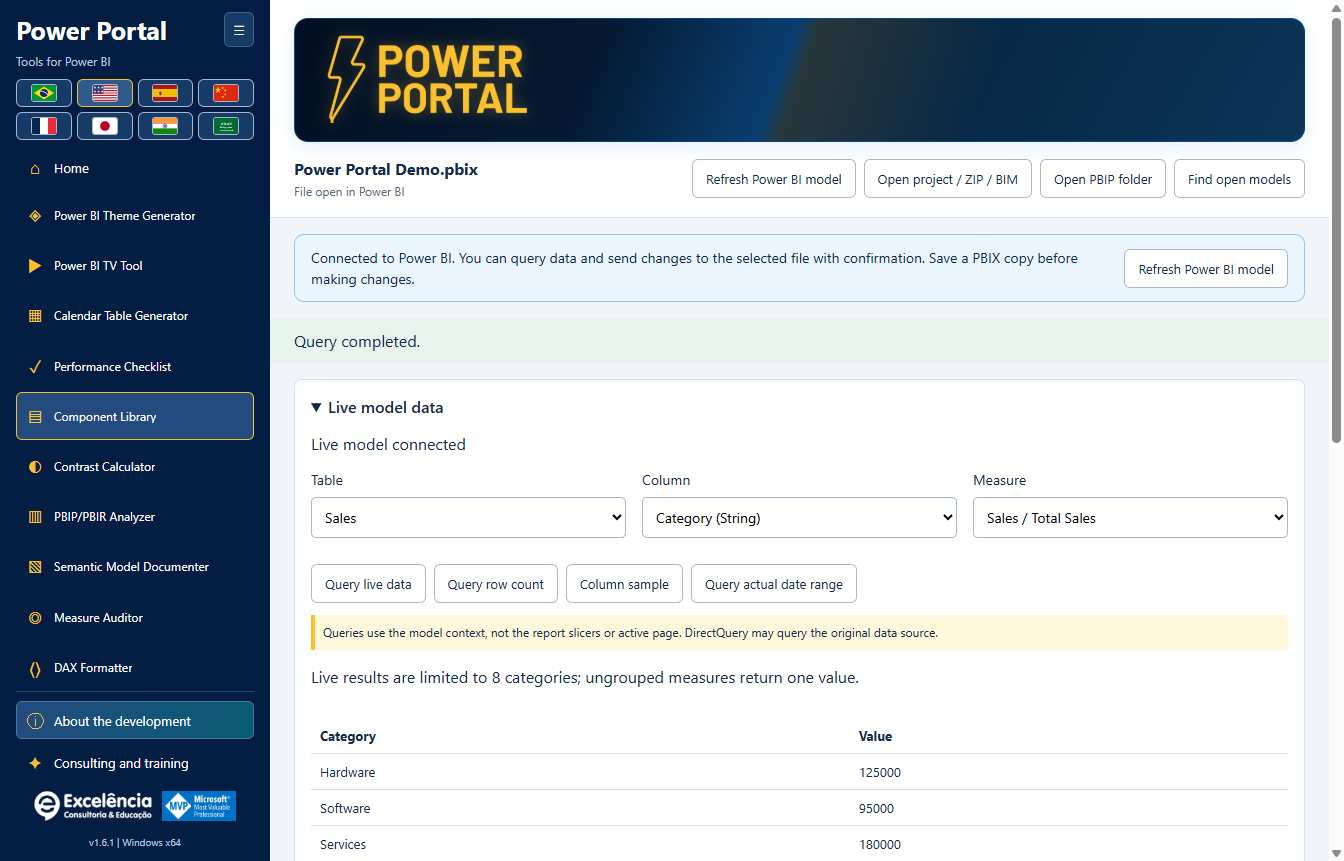
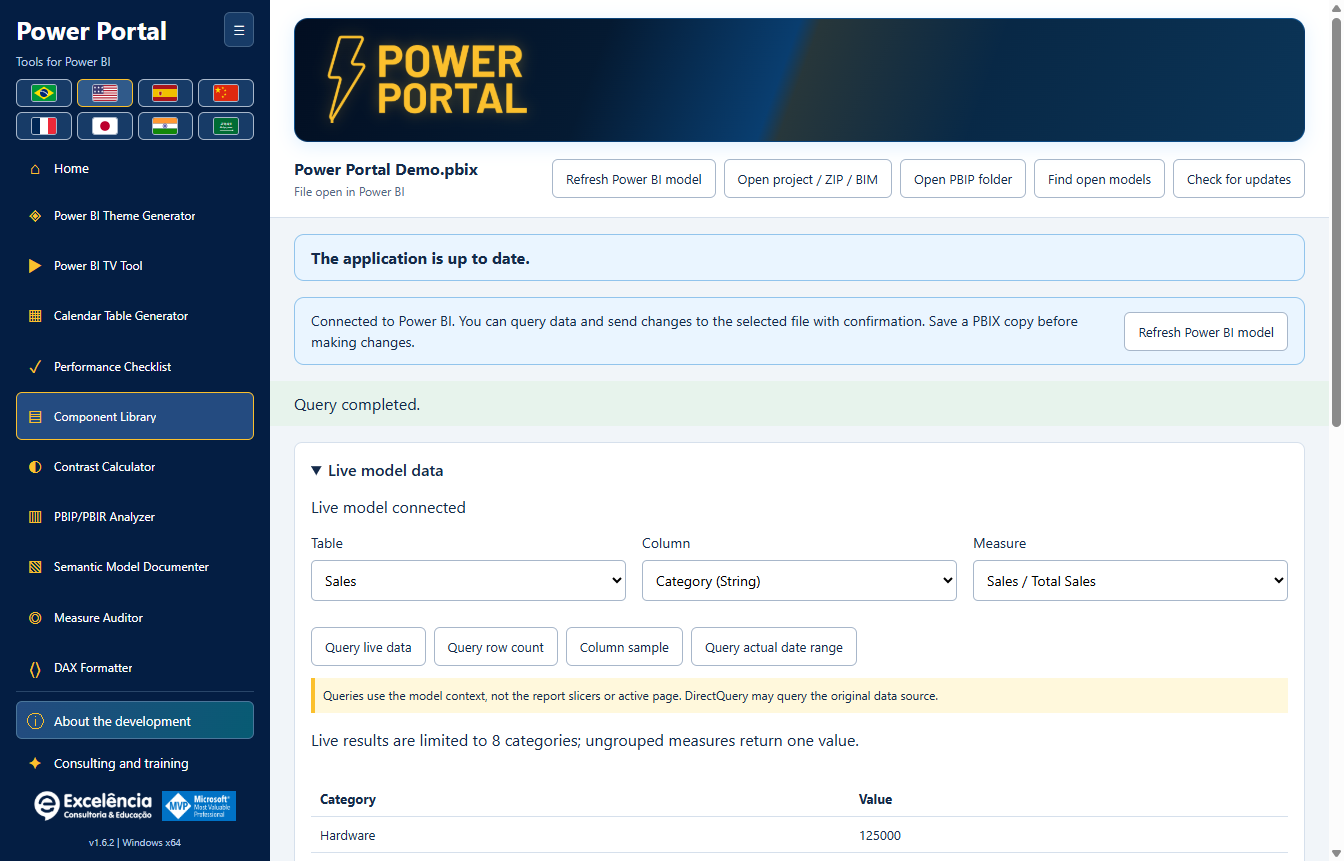
Release 1.6.2 with built-in update checks and illustrated update documentation

diff --git a/README.md b/README.md
@@ -10,13 +10,13 @@ This is a **distribution-only repository**: installers, installation helpers, ch
 
 ### Option 1: Install with a few clicks
 
-1. [Download Power Portal Desktop 1.6.1 for Windows x64](https://github.com/luisgnserra/powerportaldesktop/releases/download/v1.6.1/PowerPortal-Setup-1.6.1-x64.exe).
+1. [Download Power Portal Desktop 1.6.2 for Windows x64](https://github.com/luisgnserra/powerportaldesktop/releases/download/v1.6.2/PowerPortal-Setup-1.6.2-x64.exe).
 2. Run the installer and approve the Windows administrator prompt.
 3. Choose the installation folder and default language.
 4. Finish installation, then close and reopen Power BI Desktop.
 5. Open a PBIX and select **External Tools > Power Portal**.
 
-**Windows may warn that the publisher is unknown:** version 1.6.1 is not digitally signed. Only proceed if you trust this distribution. If your organization blocks unsigned software, contact IT rather than bypassing its policy.
+**Windows may warn that the publisher is unknown:** version 1.6.2 is not digitally signed. Only proceed if you trust this distribution. If your organization blocks unsigned software, contact IT rather than bypassing its policy.
 
 [Latest release](https://github.com/luisgnserra/powerportaldesktop/releases/latest) · [Installation guide](docs/INSTALLATION.md) · [Configuration](docs/CONFIGURATION.md) · [Troubleshooting](docs/TROUBLESHOOTING.md)
 
@@ -28,11 +28,23 @@ The installer adds **Power Portal** to **External Tools** in Power BI Desktop. C
 
 The supplied ribbon screenshot uses Portuguese: **Ferramentas externas** means **External Tools**. Power Portal opens a **separate window connected to Power BI**, not an embedded report visual or a new internal Power BI pane.
 
-![Power Portal 1.6.1 home, full sidebar and startup connection notice](docs/images/home.png)
+![Power Portal 1.6.2 home, full sidebar and startup connection notice](docs/images/home.png)
 
 **Already have Power BI open?** When launched from a shortcut, Power Portal detects open local models and displays a connection notice. Choose **Find open models**, select your file, and connect. You can then query its data and send supported changes back with confirmation.
 
 [See all ten tools, connection screens and direct Power BI actions in the illustrated guide](docs/SCREENSHOTS.md).
+
+### Built-in update checks
+
+Starting in **1.6.2**, the installed application checks the latest official GitHub Release when opened. If a newer stable version exists, it shows **Update now**. Click it to download, verify SHA-256/size, and start the installer automatically.
+
+Windows asks for administrator authorization. Only Power Portal closes; Power BI remains open. Save/export unsent tool edits first. Failed downloads or canceled authorization leave an explicit error and a retry option.
+
+![New-version notification and Update now button](docs/images/update-available.png)
+
+The screenshot uses a **simulated future 1.6.3 notification** to illustrate the UI, not an announcement of a published version. [Update guide](docs/UPDATES.md).
+
+**On 1.6.1 or older? Install 1.6.2 manually once** to enable this feature. You can also use **Check for updates** to retry a failed/offline check. The updater never installs merely because you opened the application.
 
 ### Option 2: Install from PowerShell
 
@@ -40,13 +52,13 @@ Open **Windows PowerShell 5.1 or PowerShell 7 on Windows**:
 
 ```powershell
 $script = Join-Path $env:TEMP 'Install-PowerPortal.ps1'
-Invoke-WebRequest -UseBasicParsing 'https://raw.githubusercontent.com/luisgnserra/powerportaldesktop/v1.6.1/install.ps1' -OutFile $script
+Invoke-WebRequest -UseBasicParsing 'https://raw.githubusercontent.com/luisgnserra/powerportaldesktop/v1.6.2/install.ps1' -OutFile $script
 # Review the downloaded script before running it.
 Get-Content -LiteralPath $script
 & $script
 ```
 
-The helper downloads **version 1.6.1**, verifies its pinned SHA-256 checksum, and opens the same installer. It does not install Node.js, PHP, a .NET SDK, or build anything.
+The helper downloads **version 1.6.2**, verifies its pinned SHA-256 checksum, and opens the same installer. It does not install Node.js, PHP, a .NET SDK, or build anything.
 
 For unattended installation, run the same helper from an **administrator PowerShell window**:
 
@@ -113,7 +125,7 @@ The installer suggests the Windows UI language. A user's later language selectio
 - Theme application uses **visible Windows UI Automation** and requires confirmation. There is no supported generic theme-write API for an open Desktop PBIX; dialogs are not hidden.
 - TOM connects to the semantic model, not the active report's filters, pages or visual placement. An HTML measure does not automatically add a visual to a report.
 - Report-analysis and measure-audit scores are heuristics, not measured visual performance.
-- Local model data is not sent to the Power Portal website. User-opened external links, online presentations and DirectQuery sources can require network access.
+- Local model data is not sent to the Power Portal website. The updater requests only official GitHub release metadata/installers, never model contents. User-opened external links, online presentations and DirectQuery sources can require network access.
 - Documentation exports, metadata backups and change logs can contain confidential model details. Store and share them appropriately.
 
 Read the [usage and safety guide](docs/USAGE.md) before modifying a model.

diff --git a/docs/UPDATES.md b/docs/UPDATES.md
@@ -1,0 +1,61 @@
+# Update checks and automatic installation
+
+[Back to home](../README.md) · [Installation](INSTALLATION.md)
+
+## Available from version 1.6.2
+
+Install **1.6.2 manually once** if you have 1.6.1 or an older version. Older applications cannot gain a new updater without first installing the release that contains it.
+
+The **installed** application checks the latest public stable Release in `luisgnserra/powerportaldesktop` when opened. It compares numeric three-part versions, ignores downgrades/current versions, and does not offer draft or prerelease builds.
+
+The development/source run does not download or install updates.
+
+## Update flow
+
+1. Open Power Portal. With internet available, it checks for a newer release.
+2. If available, a notification displays the version and **Update now**.
+3. **Save/export unsent tool edits** before proceeding. Model writes/themes already in progress block updating.
+4. Click **Update now**. There is no installation merely from opening the app or checking for updates.
+5. The main process downloads the official x64 installer over HTTPS and checks its exact size and SHA-256 against the published GitHub Release asset metadata.
+6. Windows requests administrator authorization. Approve only if you trust this distribution.
+7. After authorization/installer launch, Power Portal closes and the installer runs silently in the **existing installation folder**. **Power BI Desktop is not closed.**
+8. Reopen Power Portal after installation completes. Restart Desktop if its ribbon/registration needs reloading.
+
+![Update notification and user-controlled Update now button](images/update-available.png)
+
+The screenshot is a **simulated future 1.6.3 notification** inside 1.6.2, demonstrating the UI only. It is not a release announcement.
+
+The app reports installer launch, not a verified completed installation: installation completes after the old app closes. Check the displayed application version after reopening. Windows can still block the unsigned installer or require IT approval.
+
+## Checks, retries and failures
+
+**Check for updates** in the top actions retries the check manually. There is no background polling loop or forced installation.
+
+- Offline, firewall/proxy or GitHub API rate-limit errors are displayed in the update notice; local tools remain usable.
+- Invalid release metadata, missing asset digest, checksum mismatch, unexpected redirect hosts, excessive download size or timeouts prevent execution.
+- Canceling Windows authorization leaves the app available and shows an error. Retry when ready.
+- A failed check clears the old available-update offer so stale data is not used silently.
+- The updater blocks new model writes while downloading/installing and refuses to start during an active write/theme operation.
+- Tool-form edits that have not been sent/exported are not automatically preserved across application replacement. Export/save first.
+
+## Privacy, network and integrity
+
+Update requests contain only standard HTTPS request metadata to GitHub, not local model names, DAX, data, PBIX contents or credentials. No GitHub login/token is required for public releases.
+
+Release metadata comes from:
+
+```text
+https://api.github.com/repos/luisgnserra/powerportaldesktop/releases/latest
+```
+
+Installer URLs must match the release's exact versioned asset in this repository. HTTPS redirects are restricted to GitHub and its official release-asset hosts. The app retains the metadata's hash/size for that download.
+
+Checks have a 30-second total timeout and a 1 MB metadata limit. Downloads have a 20-minute total limit, 30-second socket inactivity timeout and a 1 GB maximum accepted installer size. These are bounds, not the normal package size.
+
+Downloads are held in `%APPDATA%\powerportal-desktop\updates`. Partial files are removed on handled failures; a verified EXE can remain after installation. No application source is downloaded or built.
+
+**SHA-256 is an integrity check, not a digital publisher signature.** The current release is unsigned. The updater does not bypass UAC, SmartScreen or enterprise policies. If your network requires a proxy the updater cannot use, ask IT or install the verified Release EXE manually.
+
+## Manual fallback
+
+Use the [latest Release](https://github.com/luisgnserra/powerportaldesktop/releases/latest) or the [versioned PowerShell helper](INSTALLATION.md#command-line-installation). Existing version-pinned helper commands intentionally install their pinned version, not whichever future release is latest.

diff --git a/docs/INSTALLATION.md b/docs/INSTALLATION.md
@@ -11,7 +11,7 @@ Allow approximately 1 GB of free disk space for the download and installed runti
 ## Simple installation
 
 1. Open the [latest Release](https://github.com/luisgnserra/powerportaldesktop/releases/latest).
-2. Under **Assets**, download `PowerPortal-Setup-1.6.1-x64.exe` for this release. Do not download the automatically generated source archives as an installer.
+2. Under **Assets**, download `PowerPortal-Setup-1.6.2-x64.exe` for this release. Do not download the automatically generated source archives as an installer.
 3. Optionally [verify SHA-256](#verify-the-installer).
 4. Run the executable and approve User Account Control.
 5. Accept the displayed dependency terms, choose a folder, and select a default language using the flags. Windows UI language is suggested; unsupported languages default to English.
@@ -36,12 +36,12 @@ Launching the Windows shortcut instead displays a notice when open models are de
 
 ```powershell
 $script = Join-Path $env:TEMP 'Install-PowerPortal.ps1'
-Invoke-WebRequest -UseBasicParsing 'https://raw.githubusercontent.com/luisgnserra/powerportaldesktop/v1.6.1/install.ps1' -OutFile $script
+Invoke-WebRequest -UseBasicParsing 'https://raw.githubusercontent.com/luisgnserra/powerportaldesktop/v1.6.2/install.ps1' -OutFile $script
 Get-Content -LiteralPath $script
 & $script
 ```
 
-This versioned URL pins the helper to the 1.6.1 release. It does not silently track future releases. The helper also pins the installer filename and SHA-256 checksum, downloads over HTTPS, verifies the executable before running it, and checks installation registration after a successful installer exit.
+This versioned URL pins the helper to the 1.6.2 release. It does not silently track future releases. The helper also pins the installer filename and SHA-256 checksum, downloads over HTTPS, verifies the executable before running it, and checks installation registration after a successful installer exit.
 
 ### Unattended installation
 
@@ -78,7 +78,7 @@ Do not paste an unreviewed script into `Invoke-Expression`. If a downloaded scri
 After checksum verification, an administrator can run:
 
 ```powershell
-$setup = "$env:USERPROFILE\Downloads\PowerPortal-Setup-1.6.1-x64.exe"
+$setup = "$env:USERPROFILE\Downloads\PowerPortal-Setup-1.6.2-x64.exe"
 $process = Start-Process -FilePath $setup -ArgumentList '/S' -Wait -PassThru
 if ($process.ExitCode -ne 0) { throw "Installer failed: $($process.ExitCode)" }
 ```
@@ -87,15 +87,15 @@ The PowerShell helper is recommended because it checks both the download and the
 
 ## Verify the installer
 
-Expected SHA-256 for **1.6.1 x64**:
+Expected SHA-256 for **1.6.2 x64**:
 
 ```text
[2 lines of base64/hex data omitted]
 ```
 
 ```powershell
-$file = "$env:USERPROFILE\Downloads\PowerPortal-Setup-1.6.1-x64.exe"
[1 lines of base64/hex data omitted]
+$file = "$env:USERPROFILE\Downloads\PowerPortal-Setup-1.6.2-x64.exe"
[1 lines of base64/hex data omitted]
 if ((Get-FileHash -LiteralPath $file -Algorithm SHA256).Hash -ne $expected) {
     throw 'Checksum mismatch. Do not run this installer.'
 }
@@ -109,7 +109,9 @@ Download a newer official installer and run it over the existing installation. T
 
 Close Power Portal yourself before an unattended update. Restart Power BI Desktop after installation so it reloads the External Tools registration. Existing per-user language/sidebar preferences and local backups are retained.
 
-There is **no automatic updater configured in this release**. Check Releases for updates. Downgrades are not certified; save your work and contact support before using an older installer.
+Starting with **1.6.2**, startup checks and **Check for updates** notify you about newer official releases. **Update now** downloads/verifies the installer and starts an elevated silent update in the current installation folder, only after your click. Power BI is not closed. Reopen Power Portal after installation completes. [Update details](UPDATES.md).
+
+Versions **1.6.1 and older require a one-time manual upgrade to 1.6.2**. Downgrades are not certified; save your work and contact support before using an older installer.
 
 ## Uninstall
 

diff --git a/docs/TROUBLESHOOTING.md b/docs/TROUBLESHOOTING.md
@@ -22,7 +22,12 @@
 | `-Silent` asks for administrator PowerShell | Close that terminal and launch PowerShell **Run as administrator**, then retry. |
 | SHA-256 mismatch | **Do not run the file.** Remove/move the invalid download, get the official asset again, and compare against the published checksum. |
 | GitHub download fails | Check connectivity, proxy/firewall restrictions and the Release URL. IT can distribute the verified EXE through an approved channel. |
-| SmartScreen/unknown publisher | 1.6.1 is unsigned. Verify the checksum and publisher source; ask IT if your device blocks unsigned programs. |
+| SmartScreen/unknown publisher | 1.6.2 is unsigned. Verify the checksum and publisher source; ask IT if your device blocks unsigned programs. |
+| Updates are not checked on startup | Versions 1.6.1 and older need a one-time manual upgrade to 1.6.2. The development/source run intentionally does not update. |
+| Update check fails/offline/HTTP 403 or 429 | Local tools remain available. Check internet/proxy/firewall and retry **Check for updates**. GitHub API rate limits can apply. |
+| Update now fails checksum or size verification | The installer was not executed. Retry or download the official Release manually; do not run a corrupt cached file. |
+| Windows authorization was canceled | Power Portal stays available. Retry **Update now** when ready to approve UAC, or ask IT for installation permission. |
+| Updating is blocked by an active model operation | Wait for the confirmed write/theme operation to finish, then retry. Save/export unsent edits before updating. |
 | No startup connection notice | Detection needs an open local semantic model, not merely Desktop's welcome screen. Use **Find open models** after opening a PBIX. If detection fails, check the visible error and reconnect. |
 | Installer cannot close the running app | Save your work, close Power Portal manually and retry. Only the exact installed executable is targeted. Power BI is not closed. |
 | Email button does nothing | Configure a default email client, use **Copy email**, or write to the address below manually. |
@@ -34,7 +39,7 @@ Email **[contato@consultoriaexcelencia.com.br](mailto:contato@consultoriaexcelen
 
 Include:
 
-- Power Portal version (1.6.1 for this release).
+- Power Portal version (1.6.2 for this release).
 - Windows version and Power BI Desktop version/edition.
 - Installation method (wizard or PowerShell).
 - Steps to reproduce and the exact visible error.

diff --git a/docs/SCREENSHOTS.md b/docs/SCREENSHOTS.md
@@ -2,7 +2,7 @@
 
 [Back to home](../README.md) · [Install](INSTALLATION.md) · [Safety guide](USAGE.md)
 
-**Application screenshots: Power Portal Desktop 1.6.1, English interface.**
+**Application screenshots: Power Portal Desktop 1.6.2, English interface.**
 The screenshots use **synthetic demonstration metadata and query values**, not a customer PBIX. Connected states illustrate supported UI actions; no customer model was changed to make these images. Native file-picker labels can follow the Windows language. The actual Power BI ribbon screenshot was supplied by the owner and cropped to remove the private file title.
 
 ## Open Power Portal from External Tools
@@ -30,6 +30,16 @@ Collapse the sidebar for more working space; the preference persists. Icons reta
 When started from a Windows shortcut, the app detects available local Power BI models and explains that you can connect directly to an open file. Choose **Find open models**, verify the file name and click **Connect to selected model**. With multiple files open, choose the intended one explicitly.
 
 Launching from the External Tools ribbon instead passes that Desktop instance's connection automatically and reads its metadata. **Connecting does not write changes.**
+
+## New-version notification
+
+![New version available with Update now and the authorization/unsent-edits warning](images/update-available.png)
+
+The screenshot uses a **synthetic future 1.6.3 result** to show the notification in version 1.6.2. It is not a claim that 1.6.3 has been published.
+
+The installed application checks the latest stable official Release at startup. Click **Update now** to download and verify the installer, then approve the Windows administrator request. It updates the existing installation folder and closes only Power Portal. **Connecting or checking alone never installs anything.** Save/export unsent tool edits first and reopen the app when installation finishes.
+
+**Check for updates** retries a check at any time. Offline/rate-limit/checksum/UAC failures are shown explicitly without disabling local tools. [Full update guide](UPDATES.md).
 
 ## Direct interactions with the open Power BI file
 

diff --git a/docs/RELEASING.md b/docs/RELEASING.md
@@ -7,7 +7,7 @@ This is a distribution-only repository. **Every application adjustment must ship
 ## Required release checklist
 
 1. Build/test the application in its private working tree. Never copy or push that source tree into this repository.
-2. Increment the application/installer version. Use a new immutable tag such as `v1.6.1`; do not replace an old release's executable with different bytes.
+2. Increment the application/installer version. Use a new immutable tag such as `v1.6.2`; do not replace an old release's executable with different bytes.
 3. Compute SHA-256 and size of the **final tested installer**.
 4. Update `release.json`, `SHA256SUMS.txt`, and the version/hash pinned in `install.ps1`.
 5. Update README and installation commands, relevant usage/configuration/troubleshooting instructions, and CHANGELOG.
@@ -16,6 +16,7 @@ This is a distribution-only repository. **Every application adjustment must ship
 8. Run distribution validation locally. GitHub Actions also validates the allowlist/metadata, when hosted execution is available for the account.
 9. Commit/push the distribution-only changes and create a **draft** Release with the new installer, checksum and helper as assets.
 10. Compare uploaded asset size/hash against the local installer, then publish as the latest release.
+    The built-in updater requires the matching versioned EXE asset with an `uploaded` state, positive bounded size and GitHub `sha256:` digest. Never omit these checks or publish a prerelease/draft as the stable update channel.
 11. Test the public versioned helper with `-DownloadOnly`, without credentials. Verify the resulting SHA-256 and latest-release URL before announcing completion.
 
 End users download the EXE from **Release assets**. Large installer binaries do not belong in the Git tree. The automatic source archives contain only the distribution repository, not application source.

diff --git a/docs/CONFIGURATION.md b/docs/CONFIGURATION.md
@@ -79,6 +79,7 @@ Relevant subfolders include:
 
 - `themes`: generated JSON and `.applied.json` verification exports.
 - `model-changes`: local records of confirmed write attempts and their outcomes.
+- `updates`: verified downloaded update installers. Partial downloads are removed on handled failures. Verified installers can be retained after installation; do not mistake them for model backups.
 - The profile also stores per-user interface preferences.
 
 Metadata backups are stored locally and the exact backup path is displayed after a successful write. Exported documentation and downloaded/generated files use the destination selected by the user.
@@ -90,6 +91,7 @@ To reset UI preferences, select another language or expand the sidebar in the ap
 ## Network and accounts
 
 - Local previews and bundled tools do not require a Power Portal account.
+- The installed app checks public GitHub release metadata at startup. Its main-process updater downloads official assets over HTTPS after **Update now**. No model names, expressions, rows or credentials are included in update requests.
 - Model-enabled local windows block arbitrary remote web requests.
 - Consulting links and videos open the default browser on request.
 - TV Tool uses an isolated online presentation window for published Power BI/Microsoft pages. It does not share local model access; its Microsoft login is separate and does not persist between sessions.
@@ -98,4 +100,4 @@ To reset UI preferences, select another language or expand the sidebar in the ap
 
 There are no API keys, passwords, portal credentials or source-code configuration files to supply for installation.
 
-[Installation](INSTALLATION.md) · [Usage and safety](USAGE.md)
+[Installation](INSTALLATION.md) · [Usage and safety](USAGE.md) · [Update behavior](UPDATES.md)

diff --git a/CHANGELOG.md b/CHANGELOG.md
@@ -1,5 +1,23 @@
 # Release notes
 
+## 1.6.2
+
+- Startup checks for the latest official stable GitHub Release in the installed application.
+- **Update now** downloads and verifies the exact x64 EXE using GitHub's SHA-256 asset digest and size, then starts an elevated silent installer in the current installation folder.
+- Installation only happens after the user's click and Windows authorization. Power BI is not closed; unsent-edit warnings are displayed.
+- Update/model-write concurrency protection, bounded HTTPS downloads, explicit offline/checksum/UAC errors and retry controls.
+- Eight-language notification, manual **Check for updates**, refreshed screenshots and English update guide.
+
+The application remains unsigned. Install 1.6.2 manually once if you are on 1.6.1 or older. Reopen Power Portal after an update finishes.
+
+### Assets
+
+- `PowerPortal-Setup-1.6.2-x64.exe`
+- `SHA256SUMS.txt`
+- `install.ps1`
+
+Validated version comparisons, official release validation, streamed hash/size rejection, partial cleanup, installer launch arguments, UI consent/localization/error behavior and packaged registration. No actual application update or customer model write was performed during automated tests.
+
 ## 1.6.1
 
 - Sidebar catalog fits the supported window height without a navigation scrollbar, in all eight languages and both expanded/collapsed modes.

diff --git a/DISTRIBUTION.md b/DISTRIBUTION.md
@@ -8,6 +8,6 @@ No new application licensing terms are established by this repository. For licen
 
 The installer presents Microsoft AMO/TOM dependency terms. Third-party license notices are included with the installed runtime components. Microsoft, Power BI and Microsoft Fabric are Microsoft trademarks; MVP identification does not imply Microsoft ownership, sponsorship or endorsement.
 
-Version 1.6.1 is not digitally signed. Obtain it from the official Release assets, verify the published SHA-256 checksum, and comply with your organization's software approval policies.
+Version 1.6.2 is not digitally signed. Obtain it from the official Release assets, verify the published SHA-256 checksum, and comply with your organization's software approval policies.
 
 The automatic GitHub ZIP/TAR "Source code" downloads contain only this distribution repository's files. They are not the Power Portal application, an installer, or a source-code release of the application.
